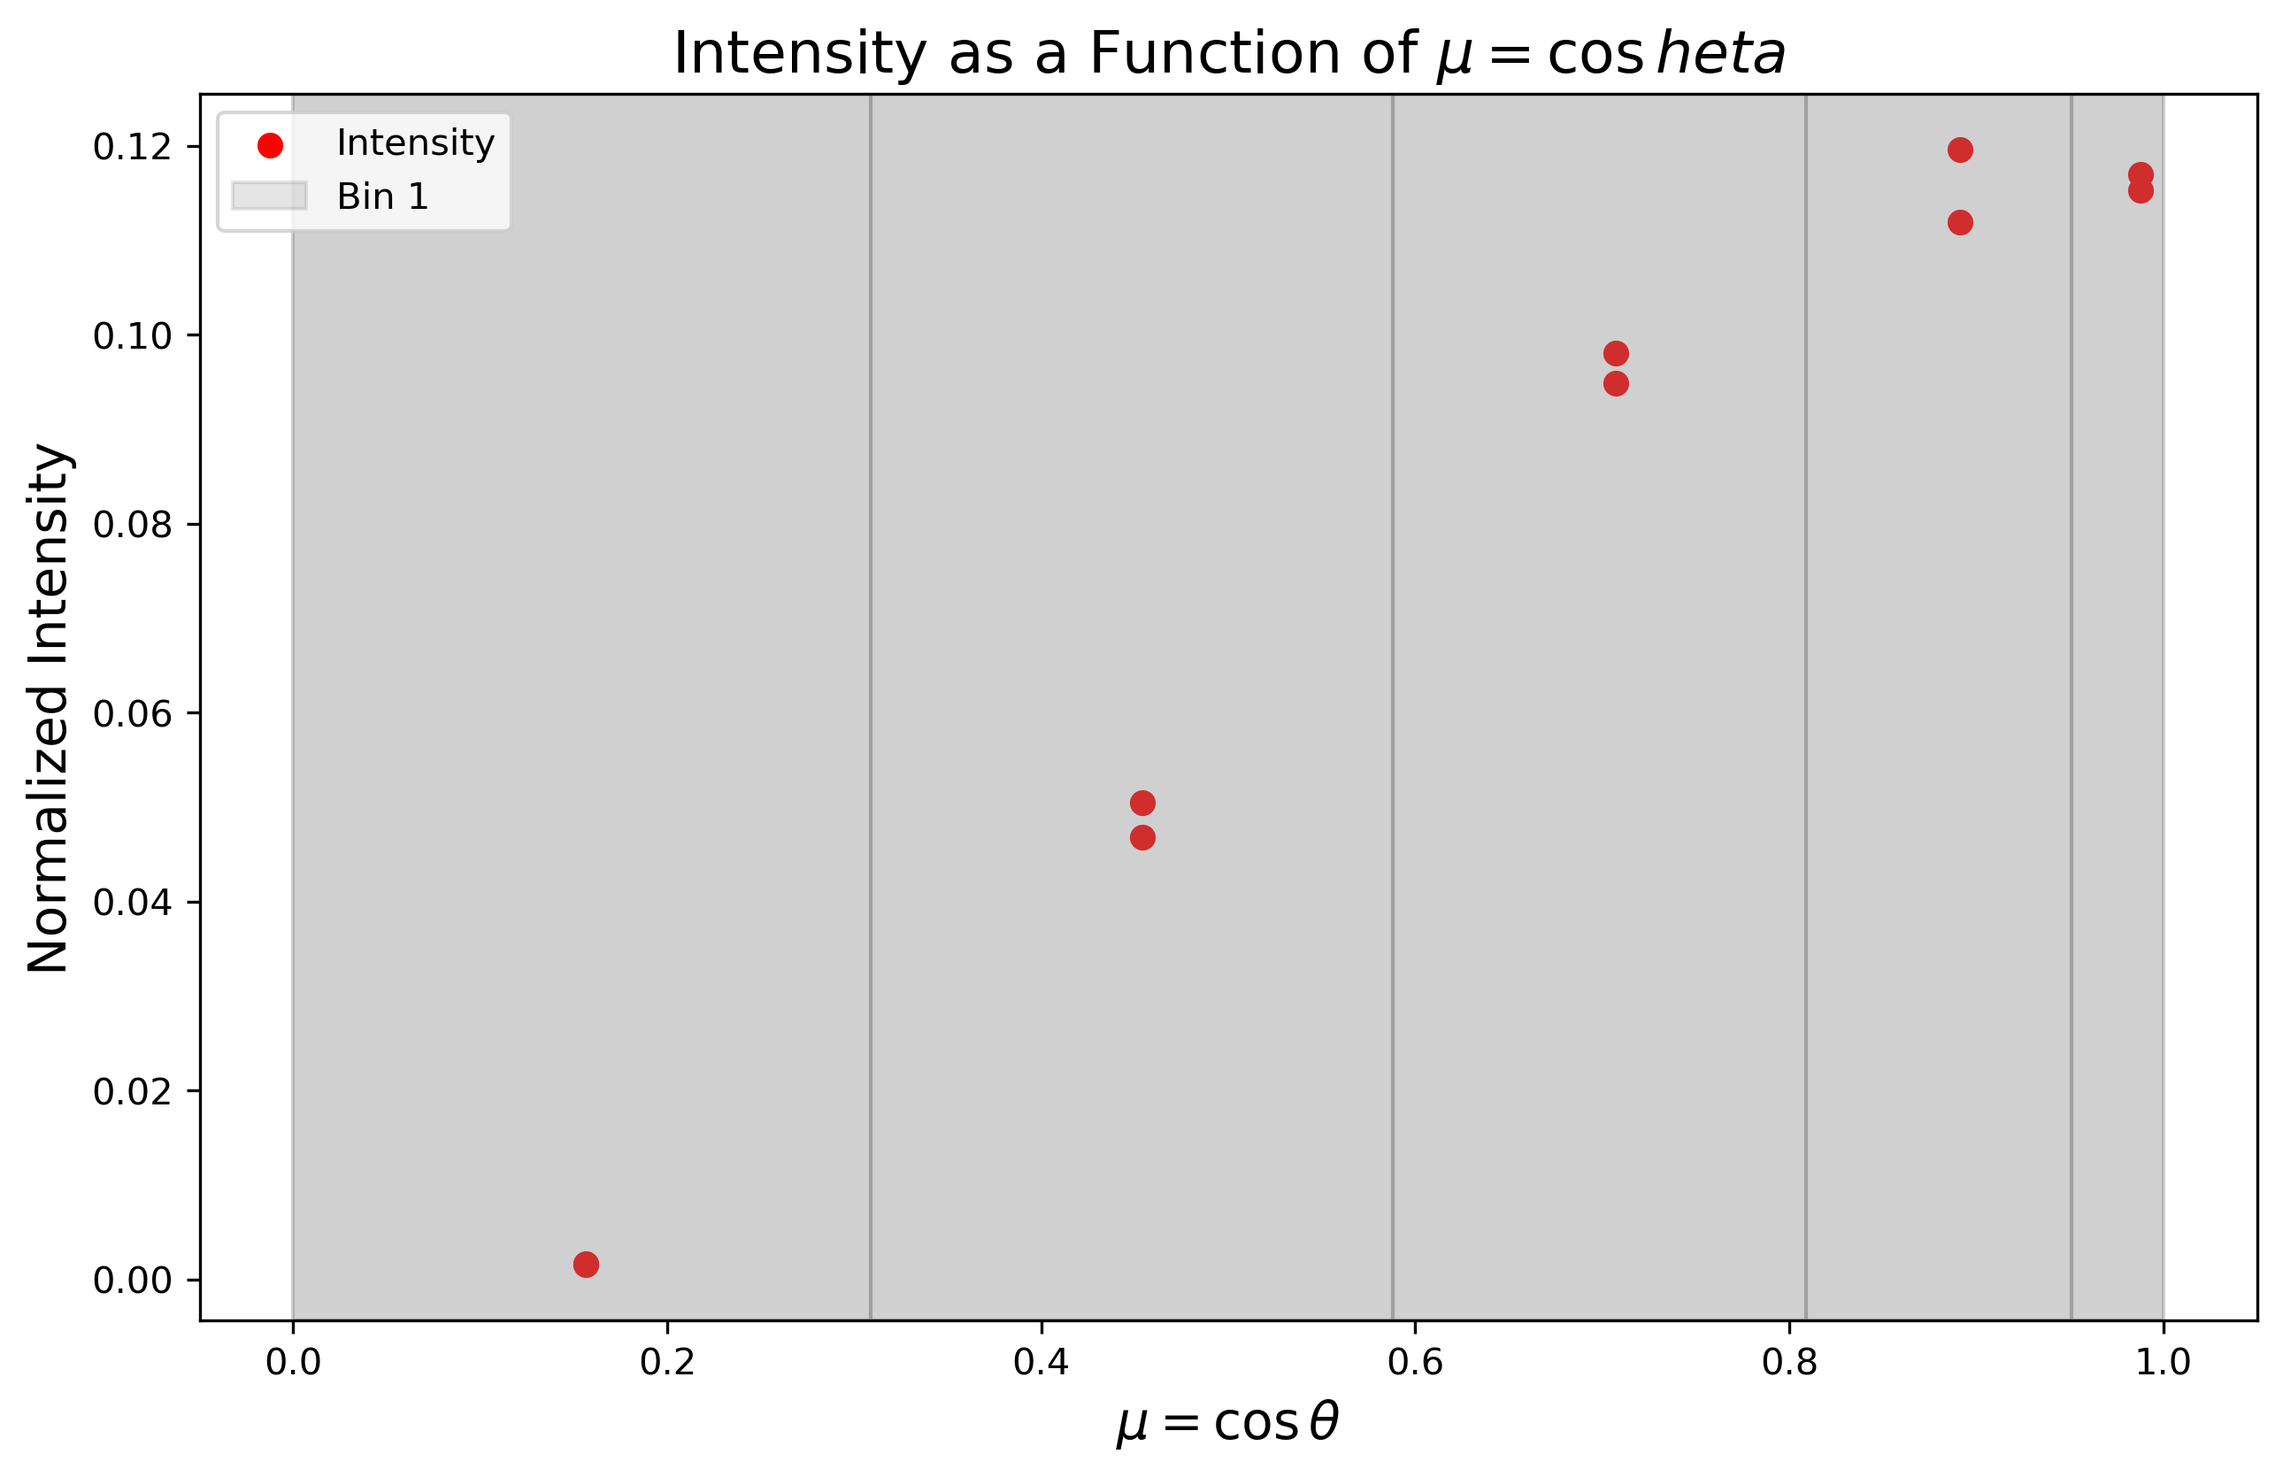
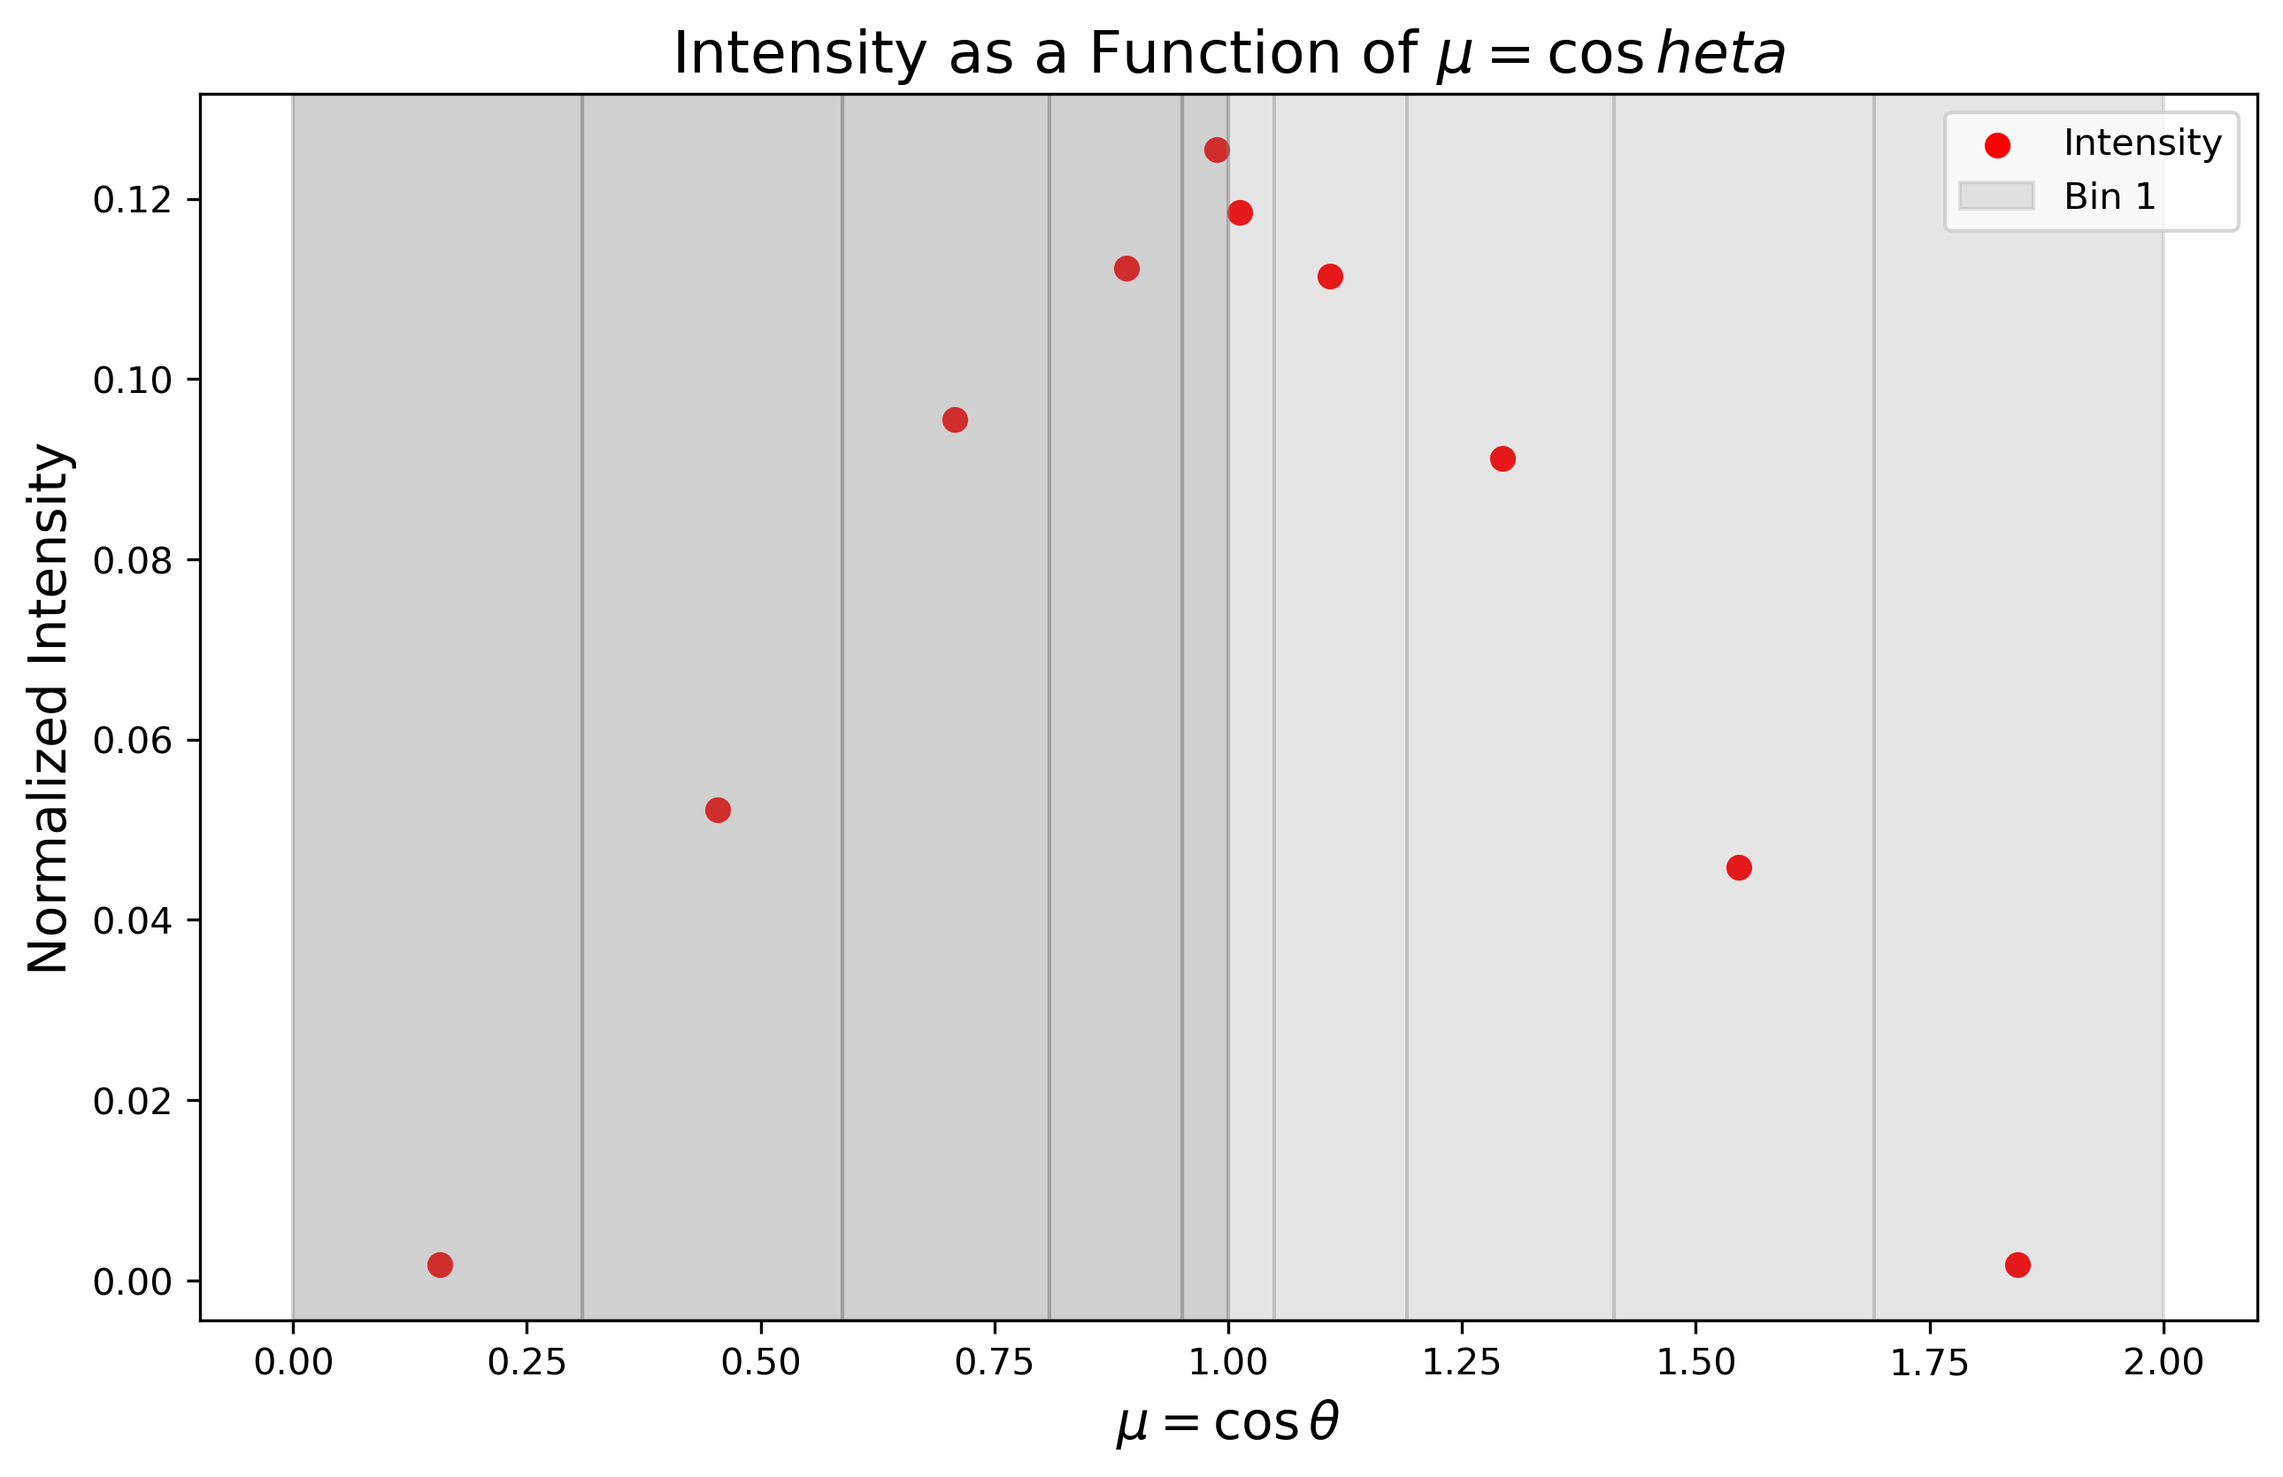
Q3 less go

diff --git a/q1.c b/q1.c
@@ -171,7 +171,7 @@ double calculate_y_from_mu(double y)
     return (pow(y, 3) + 3 * y + 4) / 8.0;
 }
 
-double get_mu_from_y(double y, const double *lookup_table, int32_t size_of_table)
+double binary_search_2_columns(double y, const double *lookup_table, int32_t size_of_table)
 {
     int32_t low = 0, high = size_of_table - 1;
 
@@ -214,7 +214,7 @@ void direct_mapping(int32_t number_of_samples, int64_t *random_parameters)
         y = random_number_with_mapping(random_parameters, 0, 1);
 
         // As this is a 1D array, the accessing of the array is simply the row index i
-        mu = get_mu_from_y(y, y_to_mu_lookup_array, lookup_table_params[0]);
+        mu = binary_search_2_columns(y, y_to_mu_lookup_array, lookup_table_params[0]);
 
         fprintf(efficient_results, "%f,%f\n", mu, y);
     }
@@ -223,34 +223,38 @@ void direct_mapping(int32_t number_of_samples, int64_t *random_parameters)
     free(y_to_mu_lookup_array);
 }
 
-double get_z_from_t(double t)
+double get_z_from_u(double u)
 {
-    double r = 10.0;
-    if (t < 0)
-        t += 10;
+    // In theory if the distance travelled
+    double r = 1.0;
+    if (u < 0)
+        u += 1;
 
-    // Edge case where at the end of the circle
-    else if (t == 20)
-        return 10;
+    // Edge case where at the end of the circle ( 1.9999 as floating points)
+    else if (u > 1.999999)
+        return 1;
 
-    else if (t > 0)
-        t -= 10;
+    else if (u > 0)
+        u -= 1;
 
-    return r * (2.0 / pi) * asin(t / r);
+    return r * (2.0 / pi) * asin(u / r);
 }
 
-double get_y_from_t_and_z(double t, double z)
+double get_y_from_u_and_z(double u, double z)
 {
-    double r = 10.0;
+    double r = 1.0;
 
-    if (t < 0)
+    if (u < 0)
         return sqrt(r * r - z * z);
 
-    else if (t > 0)
+    else if (u > 0)
         return -sqrt(r * r - z * z);
 }
 
-void photon_scattering_lookup(double t, double *lookup_table, int32_t size_of_table, double *dz, double *dy)
+// While it is possible to merge the lookups into one, I ran into an issue where in C only a single value is returned.
+// I think this function is distinct enough to warrent its existance. but I think the functionality of binary_search_2_columns could be rewrote to use pointers Or maybe a more general lookup taking X pointers in or something
+// TODO: See comment above? maybe, not sure if its the most important thing in the world, and there is other piorities first.
+void binary_search_3_columns(double u, double *lookup_table, int32_t size_of_table, double *dz, double *dy)
 {
     int32_t low = 0, high = size_of_table - 1;
 
@@ -258,9 +262,9 @@ void photon_scattering_lookup(double t, double *lookup_table, int32_t size_of_ta
     while (low <= high)
     {
         int32_t mid = low + (high - low) / 2;
-        double mid_t = lookup_table[3 * mid];
+        double mid_u = lookup_table[3 * mid];
 
-        if (mid_t < t)
+        if (mid_u < u)
         {
             low = mid + 1;
         }
@@ -278,7 +282,7 @@ void photon_scattering_lookup(double t, double *lookup_table, int32_t size_of_ta
 // Function to find bin index based on theta
 int32_t find_bin_index(double theta, double *bin_edges, int32_t number_of_bins)
 {
-    for (int i = 0; i < number_of_bins; i++)
+    for (int32_t i = 0; i < number_of_bins; i++)
     {
         if (theta >= bin_edges[i] && theta < bin_edges[i + 1])
         {
@@ -287,57 +291,109 @@ int32_t find_bin_index(double theta, double *bin_edges, int32_t number_of_bins)
     }
 }
 
-void photon_scattering(int64_t total_photon_count, int64_t *random_parameters)
+double calculate_b_from_theta(double theta)
 {
-
-    // Size of table , start value, final value
-    int32_t size_of_table = 25000, number_of_bins = 10;
-    int32_t lookup_table_params[3] = {size_of_table, -20, 20};
+    // 2 theta * 1/2pi sin(4 pi theta). I dislike doing division in C, but this generation of the lookup table is not a bottle neck one bit so ah well.
+    // Also its an odd function so it functions as intended whenever theta < 0
+    return 2 * theta + (double)(1 / (2 * pi)) * sin(4 * pi * theta);
+}
+void photon_scattering(int64_t total_photon_count, int64_t *random_parameters, int do_rayleigh_scattering, double mean_free_path, const char *results_file_name, const char *binned_file_name)
+{
+    // Size of table, start value, final value
+    int32_t size_of_table = 5000, number_of_bins = 10;
+    int32_t lookup_table_params[3] = {size_of_table, -2, 2};
 
     double escape_z = 200;
-    double *displacement_lookup_array = generate_lookup_array(lookup_table_params, "displacement_direction_lookup.csv", *get_z_from_t, *get_y_from_t_and_z);
+    double *displacement_lookup_array = generate_lookup_array(lookup_table_params, "displacement_direction_lookup.csv", *get_z_from_u, *get_y_from_u_and_z);
 
-    FILE *photon_scattering, *binned_intensity;
-    if ((photon_scattering = fopen("photon_scattering_results.csv", "w")) == NULL ||
-        (binned_intensity = fopen("binned_intensity.csv", "w")) == NULL)
+    FILE *photon_scattering_results, *binned_intensity;
+    if ((photon_scattering_results = fopen(results_file_name, "w")) == NULL ||
+        (binned_intensity = fopen(binned_file_name, "w")) == NULL)
     {
         printf("Error opening file!\n");
         return;
     }
 
-    double bin_counts[number_of_bins], bin_midpoints[number_of_bins], bin_intensity[number_of_bins], bin_edges[number_of_bins + 1];
+    // I should only do this if rayliegh scattering, ah well.
+    int32_t size_of_scattering_table = 2000;
+    int32_t scattering_lookup_table_params[3] = {size_of_scattering_table, -2, 2};
+    double *scattering_lookup_array = generate_lookup_array(scattering_lookup_table_params, "scattering_angle_lookup.csv", *calculate_b_from_theta, NULL);
 
-    // Get the range of bin edges from - pi/2 to pi/2
-    for (int i = 0; i <= number_of_bins; i++)
+    int32_t bin_counts[number_of_bins];
+    double bin_midpoints[number_of_bins], bin_intensity[number_of_bins], bin_edges[number_of_bins + 1];
+
+    // Set up the bins and their mid points
+    for (int32_t i = 0; i <= number_of_bins; i++)
     {
         bin_edges[i] = (-pi / 2.0) + pi * i / number_of_bins;
     }
 
-    // Get the bin midpoints
-    for (int i = 0; i < number_of_bins; i++)
+    for (int32_t i = 0; i < number_of_bins; i++)
     {
         double theta_mid = (bin_edges[i] + bin_edges[i + 1]) / 2.0;
         bin_midpoints[i] = cos(theta_mid);
     }
 
-    for (int64_t i = 0; i < total_photon_count; i++)
+    // There has to be a better way to do this, I do not like this but it fixes a bug.
+    for (int32_t i = 0; i < number_of_bins; i++)
+    {
+        bin_counts[i] = 0;
+    }
+
+    for (int32_t i = 0; i < total_photon_count; i++)
     {
         // Initial values
-        double y = 0, z = 0, dz = 0, dy = 0;
+        double y = 0, z = 0, dz = 0, dy = 0, t = 0, sum_t = 0, theta = 0, u = 0;
 
         int q = 0;
 
-        // loop round until photon escapes
+        // Start it towards the z direction if Rayleigh scattering
+        if (do_rayleigh_scattering)
+        {
+            z += -log(random_number_with_mapping(random_parameters, 0, 1)) * mean_free_path;
+            u += 2;
+        }
+
+        // Loop until photon escapes
         while (z >= 0 && z <= escape_z)
         {
-            double t = random_number_with_mapping(random_parameters, -20, 20);
 
-            // pass in the memory address of dz and dy to update them, If I was to generalise to N dimensions a array would be better but this works alright for now
-            photon_scattering_lookup(t, displacement_lookup_array, size_of_table, &dz, &dy);
+            // Getting a bit too indented for my liking but it will have to do.
+            if (do_rayleigh_scattering)
+            {
+                // Adjust theta by a probabilistic amount
+                double b = random_number_with_mapping(random_parameters, -4, 4);
+                theta = binary_search_2_columns(b, scattering_lookup_array, size_of_scattering_table);
+                u += theta;
 
-            z += dz;
-            y += dy;
+                // Check for a complete rotation
+                if (u > 2)
+                    u -= 4;
+                if (u < -2)
+                    u += 4;
+            }
+            else
+            {
+                u = random_number_with_mapping(random_parameters, -2, 2);
+            }
+
+            // Pass in the memory address of dz and dy to update them, If I was to generalise to N dimensions a array would be better but this works alright for now
+            binary_search_3_columns(u, displacement_lookup_array, size_of_table, &dz, &dy);
+
+            // Calculate the distance travelled using a direct map. TODO: another lookup table for this one?
+            t = -log(random_number_with_mapping(random_parameters, 0, 1)) * mean_free_path;
+
+            sum_t += t;
+            z += dz * t;
+            y += dy * t;
             q++;
+        }
+
+        // Compute and print average t
+        if (q > 0)
+        {
+            double avg_t = sum_t / (double)q;
+            // printf("Average t: %f\n", avg_t);
         }
 
         // Check which direction the photon escaped from
@@ -351,7 +407,6 @@ void photon_scattering(int64_t total_photon_count, int64_t *random_parameters)
             // Then from this calculate the angle from the origin
 
             // First, adjustment for overshooting. we want where it crosses z = 200
-
             double overshoot_z = z - escape_z;
             // As the ratios will remain the same we can find the overshoot y as a ratio relative to the z overshoot
             double overshoot_y = overshoot_z * dy / dz;
@@ -360,27 +415,23 @@ void photon_scattering(int64_t total_photon_count, int64_t *random_parameters)
             y -= overshoot_y;
 
             // Find the angle.
-            double theta = atan(y / escape_z);
-            double intensity = cos(theta);
+            double theta_lab = atan(y / escape_z);
+            double intensity = cos(theta_lab);
 
-            fprintf(photon_scattering, "%f,%f,%d\n", y, intensity, q);
+            fprintf(photon_scattering_results, "%f,%f,%d\n", y, intensity, q);
 
-            int32_t bin_index = find_bin_index(theta, bin_edges, number_of_bins);
-
+            int32_t bin_index = find_bin_index(theta_lab, bin_edges, number_of_bins);
             bin_counts[bin_index]++;
         }
     }
-    fclose(photon_scattering);
+    fclose(photon_scattering_results);
 
-    printf("got here\n");
-
+    // Write binned intensity results
     for (int32_t i = 0; i < number_of_bins; i++)
     {
-
         bin_intensity[i] = (double)bin_counts[i] * fabs(bin_midpoints[i]) / (double)total_photon_count;
         fprintf(binned_intensity, "%lf,%lf,%lf,%lf\n", bin_midpoints[i], bin_intensity[i], bin_edges[i], bin_edges[i + 1]);
     }
-
     fclose(binned_intensity);
 }
 
@@ -421,14 +472,19 @@ int main()
 
     // Question 2.
 
-    int64_t total_photon_count = 1000000;
+    int64_t total_photon_count = 100000;
 
     clock_t start_photon_scattering = clock();
-    photon_scattering(total_photon_count, rand_parameters);
+    photon_scattering(total_photon_count, rand_parameters, 0, 10, "photon.csv", "photon_bins.csv");
     clock_t end_photon_scattering = clock();
     double time_photon_scattering = (double)(end_photon_scattering - start_photon_scattering) / CLOCKS_PER_SEC;
 
     printf("Photon scattering completed in %.6f\n", time_photon_scattering);
+
+    // Question 3
+
+    photon_scattering(total_photon_count, rand_parameters, 1, 10, "rayleigh_blue.csv", "rayleigh_blue_bins.csv");
+    photon_scattering(total_photon_count, rand_parameters, 1, 0.1, "rayleigh_other.csv", "rayleigh_other_bins.csv");
 
     return 0;
 }

diff --git a/photon_bins.py b/photon_bins.py
@@ -2,9 +2,15 @@ import pandas as pd
 import matplotlib.pyplot as plt
 import numpy as np
 
-# Load the CSV file
+# # Load the CSV file
 data = pd.read_csv(
     "binned_intensity.csv",
+    header=None,
+    names=["mu", "intensity", "bin_edge_lower", "bin_edge_upper"],
+)
+
+data = pd.read_csv(
+    "rayleigh_binned_intensity.csv",
     header=None,
     names=["mu", "intensity", "bin_edge_lower", "bin_edge_upper"],
 )
@@ -15,6 +21,10 @@ intensity = data["intensity"]
 bin_edge_lower = data["bin_edge_lower"]
 bin_edge_upper = data["bin_edge_upper"]
 
+for i in range(len(mu)):
+    if i >= 5:
+        mu[i] = 2 - mu[i]
+
 # Plot settings
 fig, axes = plt.subplots(1, 1, figsize=(10, 6))  # Set figure size
 
@@ -23,6 +33,14 @@ axes.scatter(mu, intensity, marker="o", color="red", label="Intensity")
 
 # Shade the regions of each bin
 for i in range(len(bin_edge_lower)):
+    if i >= 5:
+        axes.axvspan(
+            2 - np.cos(bin_edge_lower[i]),
+            2 - np.cos(bin_edge_upper[i]),
+            color="gray",
+            alpha=0.2,
+            label=f"Bin {i + 1}" if i == 0 else "",
+        )
     axes.axvspan(
         np.cos(bin_edge_lower[i]),
         np.cos(bin_edge_upper[i]),
@@ -30,6 +48,7 @@ for i in range(len(bin_edge_lower)):
         alpha=0.2,
         label=f"Bin {i + 1}" if i == 0 else "",
     )
+
 
 # Add labels and title
 axes.set_xlabel(r"$\mu = \cos\theta$", fontsize=14)

diff --git a/plot_efficient.py b/plot_efficient.py
@@ -3,8 +3,8 @@ import numpy as np
 import matplotlib.pyplot as plt
 
 # # Get data.
-# data = pd.read_csv("efficient_results.csv", names=["mu", "y"])
-data = pd.read_csv("displacement_direction_lookup.csv", names=["x", "mu", "y"])
+data = pd.read_csv("efficient_results.csv", names=["mu", "y"])
+# data = pd.read_csv("displacement_direction_lookup.csv", names=["x", "mu", "y"])
 
 mu_values = data["mu"]
 y_values = data["y"]

diff --git a/photon_plot.py b/photon_plot.py
@@ -3,6 +3,7 @@ import matplotlib.pyplot as plt
 
 # Load data
 df = pd.read_csv("photon_scattering_results.csv", names=["y", "theta", "iterations"])
+# df = pd.read_csv("rayleigh_scattering_results.csv", names=["y", "theta", "iterations"])
 
 # Set up the figure
 fig, axes = plt.subplots(2, 2, figsize=(12, 10))
